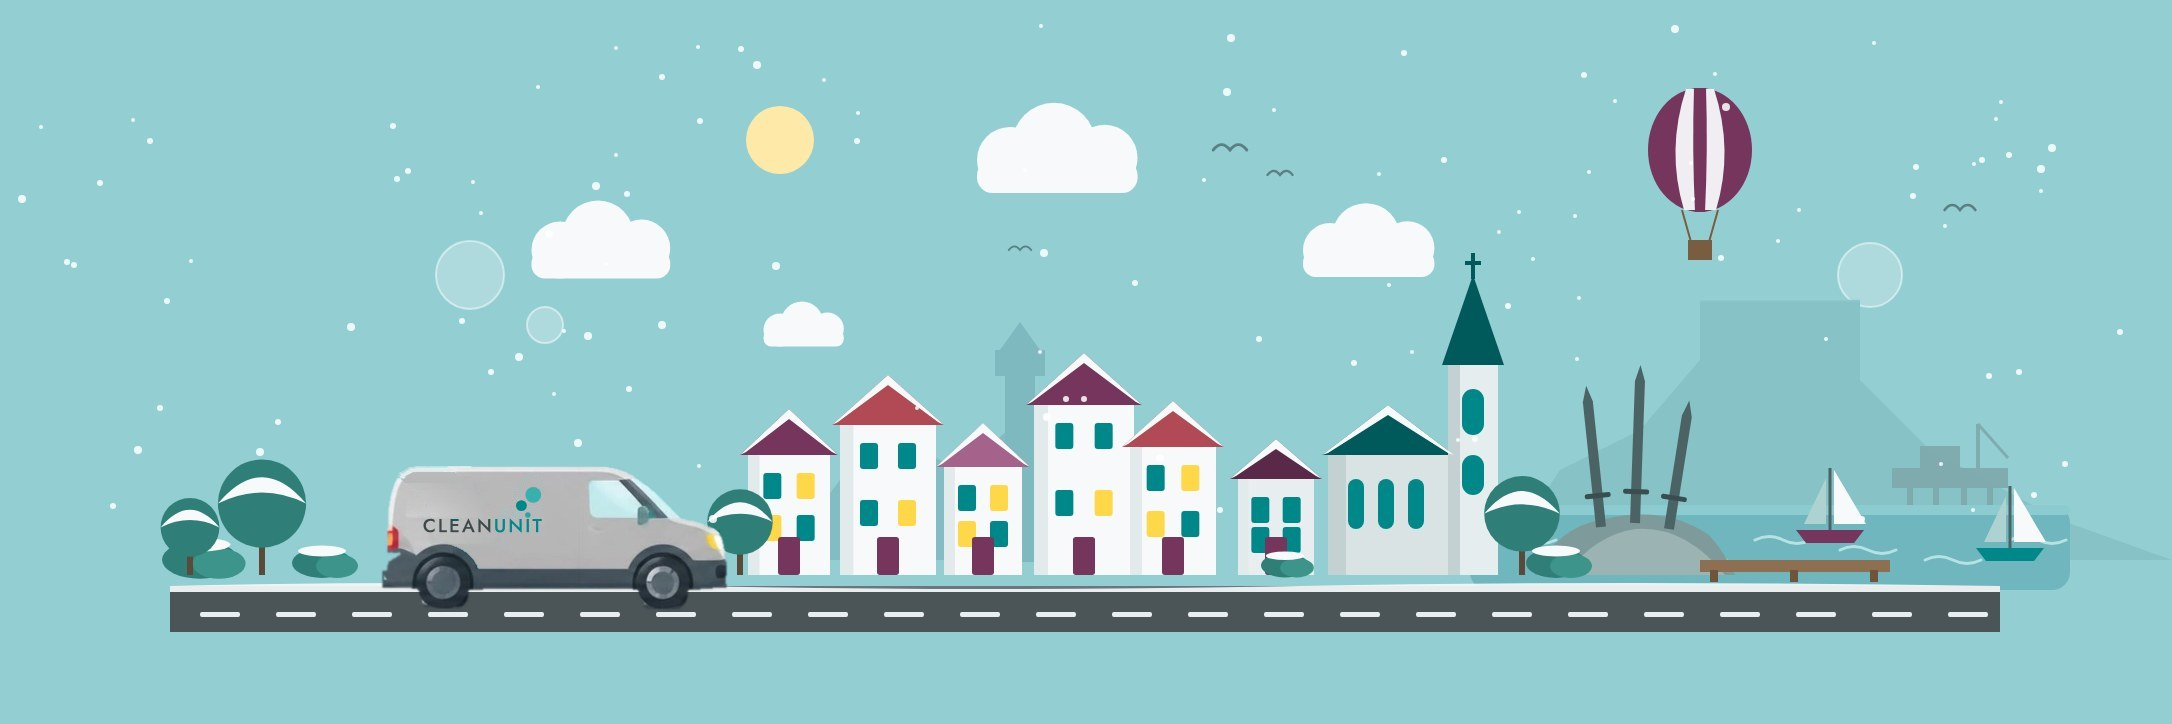
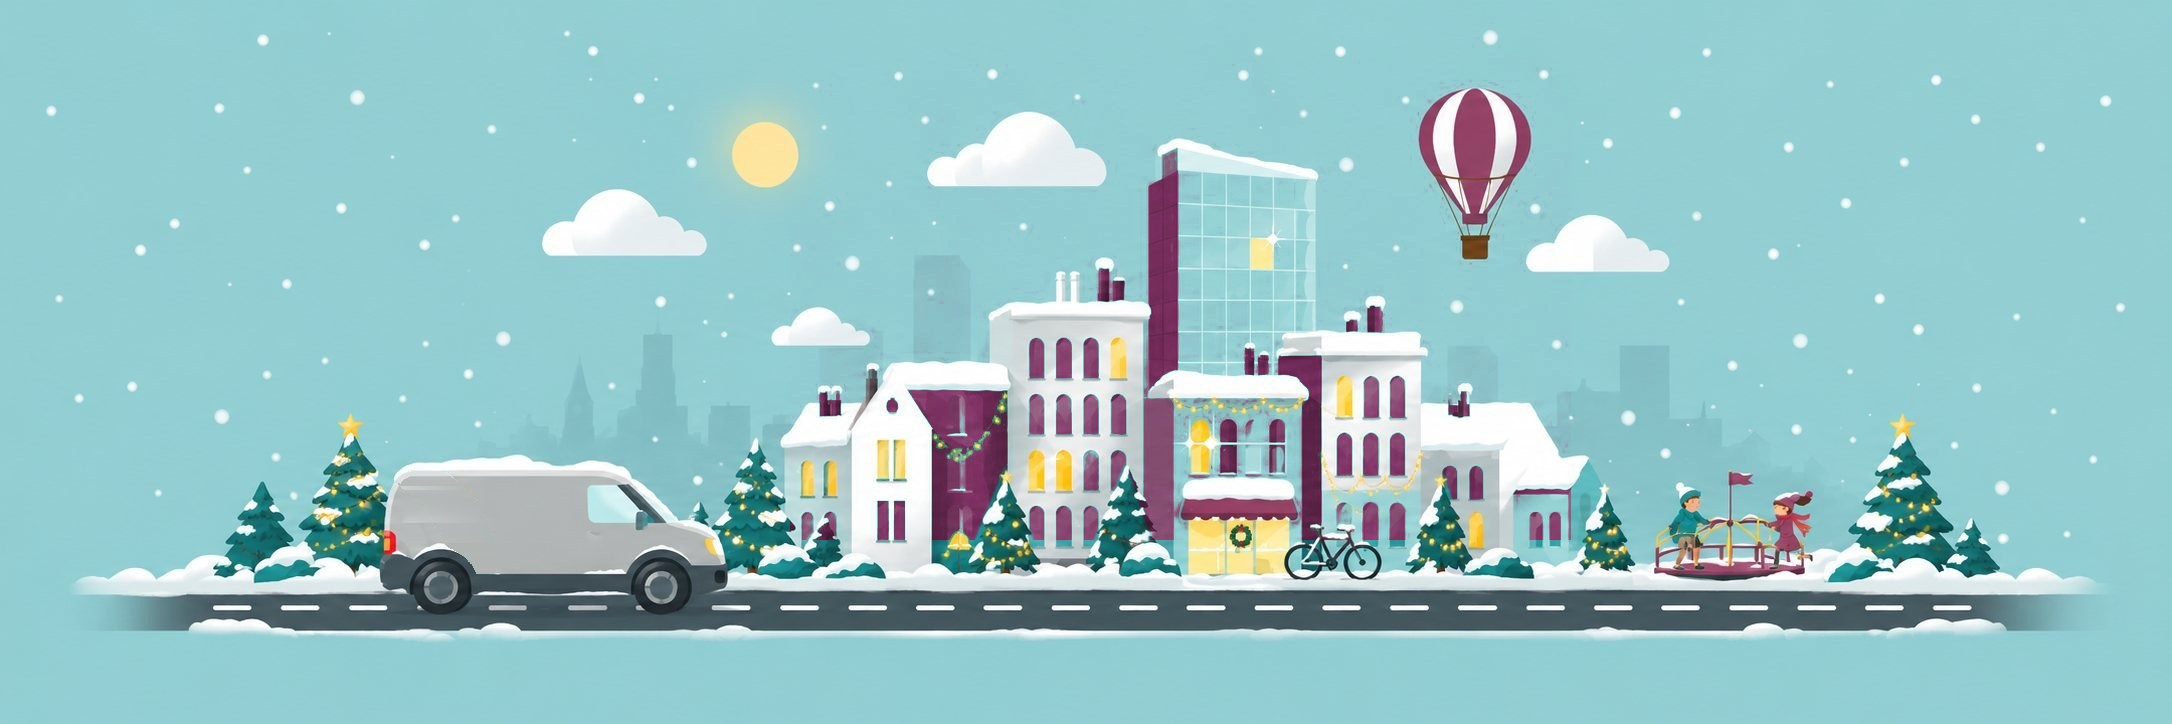
Stavanger-bybildet: Oslo-scenen med mer burgunder (Marits ønske fra 7. okt)
Marit: «Samme logo og fargebruk som i Oslo, men litt mer burgunder slik at det blir en større forskjell».
Stavanger-scenene (sommer og vinter) er nå Oslo-scenene med bygningenes teal-flater (tak, skyggesider, vinduer,
glasstårnets skyggekant) omfarget til Maritts burgunder #75355D, med lysstyrke og detaljer fra originalen.
Alt utenfor bygningssonen er uendret piksel for piksel (målt: 0 piksler endret utenfor sonen), og vinterbildets
grantrær holdes utenfor med trekanter. Komposisjonen er identisk, så logoen på varebilen (nå lagt på med CSS som i
Oslo, ikke lenger skjult i Stavanger) og sti-starten ligger på samme sted. Resten av siden er fortsatt grønn,
i tråd med Rickys avgjørelse 2026-10-07 mot et helt burgunder tema.
verktoy/hero-stavanger-burgunder.py lager bildene; de tre gamle generatorene (tegnet den eldre, enklere
Stavanger-scenen) er fjernet fordi de ikke lenger stemmer med bildene. Ny test pinner logoen, verktøyet og målene.

Claude-Session: https://claude.ai/code/session_01KAcqb1QgHmTRwaGtkNnNHW

diff --git a/test/bygg.test.js b/test/bygg.test.js
@@ -1153,3 +1153,21 @@ test('Tekstsjekk: Oslo-tekstene er endret i Oslo, mens Stavanger beholder sine e
   assert.ok(!les(sideFil('Stavanger', 'om_oss')).includes('Flere av våre ansatte har jobbet'), 'Stavanger: ingen Oslo-ansatttekst');
 });
 
+
+test('Stavanger-bybildet er Oslo-scenen med mer burgunder: samme mål, logoen på varebilen vises, verktøyet finnes', () => {
+  const css = les('css/style.css');
+  assert.doesNotMatch(css, /\.by--stavanger \.hero__scene-merke \{ display: none/, 'logoen skal legges på varebilen i Stavanger også (bildet har blank varebil)');
+  assert.match(les('sider/forside.html'), /class="hero__scene-merke"/, 'logo-overlegget finnes i forsiden');
+  assert.ok(existsSync('verktoy/hero-stavanger-burgunder.py'), 'verktøyet som lager Stavanger-scenene mangler');
+  for (const gammel of ['verktoy/hero-stavanger.py', 'verktoy/hero-stavanger-raster.mjs', 'verktoy/hero-stavanger-webp.py']) {
+    assert.ok(!existsSync(gammel), `${gammel}: den gamle generatoren tegner ikke lenger de nåværende bildene`);
+  }
+  const bytes = (f) => readFileSync(f);
+  for (const [oslo, stav] of [['hero-scene', 'hero-stavanger'], ['hero-scene-vinter', 'hero-stavanger-vinter']]) {
+    const o = bytes(`bilder/${oslo}.webp`); const s = bytes(`bilder/${stav}.webp`);
+    assert.ok(!o.equals(s), `${stav}.webp skal være en egen scene`);
+    // WebP-filer av typen VP8 har bredde/høyde i rasterhodet (se den eldre rastertesten): samme mål som Oslo
+    assert.equal(s.readUIntLE(26, 2) & 0x3fff, o.readUIntLE(26, 2) & 0x3fff, `${stav}.webp: samme bredde som Oslo-scenen`);
+    assert.equal(s.readUIntLE(28, 2) & 0x3fff, o.readUIntLE(28, 2) & 0x3fff, `${stav}.webp: samme høyde som Oslo-scenen`);
+  }
+});

diff --git a/css/style.css b/css/style.css
@@ -1279,10 +1279,11 @@ html.js .side-nav:not(.side-nav--festet) { background: transparent; box-shadow: 
   .side-hode__by img { display: block; height: 100%; width: auto; }
 }
 
-/* ── Stavanger: eget bybilde, samme palett som Oslo ───────────────────────────────────────────────
-   Stavanger har sin egen heroscene (bilder/hero-stavanger*, tegnet av verktoy/hero-stavanger.py) med samme
-   himmelfarge som Oslo. Fargene er de samme grønne tokenene som Oslo; Ricky bestemte 2026-10-07 mot et
-   burgunder tema. Logoen på varebilen er tegnet inn i bildet. */
-.by--stavanger .hero__scene-merke { display: none; }
+/* ── Stavanger: eget bybilde, samme palett som Oslo, men med mer burgunder ───────────────────────────
+   Stavanger-scenene (bilder/hero-stavanger*) er Oslo-scenene med bygningenes teal-flater omfarget til Maritts burgunder
+   (verktoy/hero-stavanger-burgunder.py; Marit 2026-10-07: «Samme logo og fargebruk som i Oslo, men litt mer burgunder
+   slik at det blir en større forskjell»). Komposisjonen er identisk, så logoen på varebilen (.hero__scene-merke) og
+   sti-starten ligger på samme sted som i Oslo; bildene har blank varebil. Resten av siden er fortsatt grønn: Ricky
+   bestemte 2026-10-07 mot et helt burgunder tema, det gjelder bare bybildet. */
 /* Tjenestesymbolene (rundmerkene) er mindre og dempet i Stavanger (Marit tror ikke Stavanger-lederen bruker symbolene likt). */
 .by--stavanger .tjeneste-kort__ikon { height: 3.5rem; opacity: .85; }

diff --git a/verktoy/hero-stavanger-burgunder.py b/verktoy/hero-stavanger-burgunder.py
@@ -1,0 +1,76 @@
+# Lager Stavanger-scenene (bilder/hero-stavanger*.jpg/.webp) av Oslo-scenene (bilder/hero-scene*.jpg).
+# Marit 2026-10-07: «Samme logo og fargebruk som i Oslo, men litt mer burgunder slik at det blir en større forskjell.»
+# Samme komposisjon og samme ankere (varebil-logo, sti-start) som Oslo, så ingen CSS-justering per by trengs.
+#
+# Metode (målt, ikke tegnet på nytt): alle teal-flater på bygningene (tak, skyggesider, vinduer, glasstårnets
+# skyggekant) skifter fargetone til Maritts burgunder (#75355D, hue 321°), med lysstyrke og detaljer fra originalen.
+# Alt utenfor bygningssonen (x 790–1570, y < 540) er uendret piksel for piksel: himmel, skyline, busker, trær,
+# varebil, ballong, barn. Vinterbildets grantrær har samme fargetone som fasadene og holdes utenfor med trekanter.
+# Skriptet skriver ut hvor mange piksler som endres utenfor sonen (skal være 0).
+# Krever Pillow, numpy og scipy. Kjør fra repo-roten: python3 verktoy/hero-stavanger-burgunder.py
+import os
+import numpy as np
+from PIL import Image
+from scipy.ndimage import gaussian_filter
+
+BILDER = os.path.join(os.path.dirname(os.path.abspath(__file__)), '..', 'bilder')
+SONE = (790, 1570, 540)                       # x0, x1, y1 (ovenfor bakkelinja, over buskene)
+GRANTRAER = [(1005, 466, 964, 566, 1042, 566), (1125, 463, 1083, 566, 1158, 566), (1440, 468, 1402, 566, 1476, 566)]
+BURGUNDER_HUE = 321.0
+
+
+def smooth(x, lo, hi):
+    t = np.clip((x - lo) / (hi - lo), 0, 1)
+    return t * t * (3 - 2 * t)
+
+
+def hsv2rgb(h, s, v):
+    c = v * s
+    hp = (h % 360) / 60
+    x = c * (1 - np.abs(hp % 2 - 1))
+    m = v - c
+    z = np.zeros_like(h)
+    rgb = np.zeros(h.shape + (3,))
+    for cond, (r, g, b) in [(hp < 1, (c, x, z)), ((hp >= 1) & (hp < 2), (x, c, z)), ((hp >= 2) & (hp < 3), (z, c, x)),
+                            ((hp >= 3) & (hp < 4), (z, x, c)), ((hp >= 4) & (hp < 5), (x, z, c)), (hp >= 5, (c, z, x))]:
+        rgb[cond] = np.stack([r, g, b], -1)[cond]
+    return rgb + m[..., None]
+
+
+def trekant(xx, yy, ax, ay, bx, by, cx, cy):
+    def side(px, py, qx, qy):
+        return (xx - qx) * (py - qy) - (px - qx) * (yy - qy)
+    d1, d2, d3 = side(ax, ay, bx, by), side(bx, by, cx, cy), side(cx, cy, ax, ay)
+    return (~(((d1 < 0) | (d2 < 0) | (d3 < 0)) & ((d1 > 0) | (d2 > 0) | (d3 > 0)))).astype(np.float64)
+
+
+def lag_stavanger(kilde, vinter):
+    a = np.asarray(Image.open(kilde).convert('RGB')).astype(np.float64) / 255
+    r, g, b = a[..., 0], a[..., 1], a[..., 2]
+    mx, mn = a.max(2), a.min(2)
+    d = np.maximum(mx - mn, 1e-9)
+    s = (mx - mn) / np.maximum(mx, 1e-9)
+    v = mx
+    h = np.where(mx == r, ((g - b) / d) % 6, np.where(mx == g, (b - r) / d + 2, (r - g) / d + 4)) * 60
+    hoyde, bredde = h.shape
+    yy, xx = np.mgrid[0:hoyde, 0:bredde]
+    x0, x1, y1 = SONE
+    sone = ((xx >= x0) & (xx <= x1) & (yy < y1)).astype(np.float64)
+    if vinter:
+        trær = np.zeros_like(sone)
+        for t in GRANTRAER:
+            trær += trekant(xx, yy, *t)
+        sone = sone * (1 - np.clip(gaussian_filter(np.clip(trær, 0, 1), 1.5) * 1.5, 0, 1))
+    teal = smooth(h, 160, 168) * (1 - smooth(h, 196, 204)) * smooth(s, 0.30, 0.45) * sone
+    ny = hsv2rgb(np.full_like(h, BURGUNDER_HUE), np.clip(s * 0.78, 0, 0.62), np.clip(v * 0.80, 0, 1))
+    ut = a * (1 - teal[..., None]) + ny * teal[..., None]
+    utenfor = int(((np.abs(ut - a).max(2) > 2 / 255) & (sone == 0)).sum())
+    print(f'{os.path.basename(kilde)}: endret i sonen {int((np.abs(ut - a).max(2) > 2 / 255).sum())} piksler, utenfor sonen {utenfor} (skal være 0)')
+    assert utenfor == 0
+    return Image.fromarray((np.clip(ut, 0, 1) * 255 + 0.5).astype(np.uint8))
+
+
+for kilde, mål, vinter in [('hero-scene', 'hero-stavanger', False), ('hero-scene-vinter', 'hero-stavanger-vinter', True)]:
+    bilde = lag_stavanger(os.path.join(BILDER, kilde + '.jpg'), vinter)
+    bilde.save(os.path.join(BILDER, mål + '.jpg'), quality=90, progressive=True, optimize=True)
+    bilde.save(os.path.join(BILDER, mål + '.webp'), quality=82, method=6)
